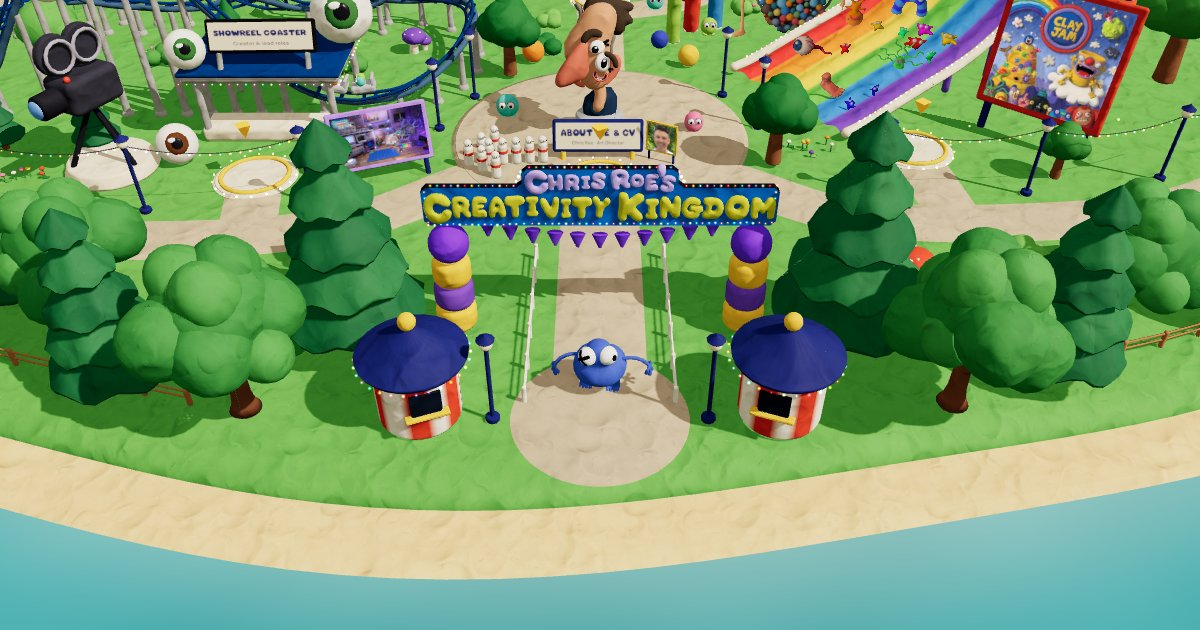
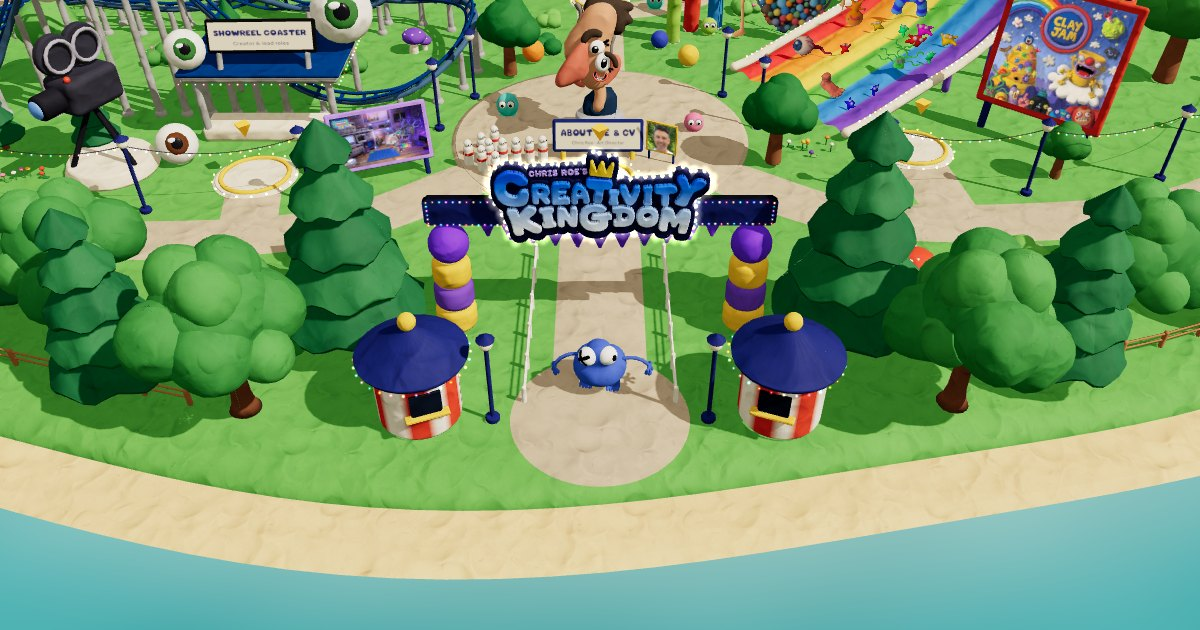
new park signage

diff --git a/lib/d3-array.min.js b/lib/d3-array.min.js
@@ -1,0 +1,2 @@
+// https://d3js.org/d3-array/ v3.2.4 Copyright 2010-2023 Mike Bostock
+!function(t,n){"object"==typeof exports&&"undefined"!=typeof module?n(exports):"function"==typeof define&&define.amd?define(["exports"],n):n((t="undefined"!=typeof globalThis?globalThis:t||self).d3=t.d3||{})}(this,(function(t){"use strict";function n(t,n){return null==t||null==n?NaN:t<n?-1:t>n?1:t>=n?0:NaN}function r(t,n){return null==t||null==n?NaN:n<t?-1:n>t?1:n>=t?0:NaN}function e(t){let e,f,i;function u(t,n,r=0,o=t.length){if(r<o){if(0!==e(n,n))return o;do{const e=r+o>>>1;f(t[e],n)<0?r=e+1:o=e}while(r<o)}return r}return 2!==t.length?(e=n,f=(r,e)=>n(t(r),e),i=(n,r)=>t(n)-r):(e=t===n||t===r?t:o,f=t,i=t),{left:u,center:function(t,n,r=0,e=t.length){const o=u(t,n,r,e-1);return o>r&&i(t[o-1],n)>-i(t[o],n)?o-1:o},right:function(t,n,r=0,o=t.length){if(r<o){if(0!==e(n,n))return o;do{const e=r+o>>>1;f(t[e],n)<=0?r=e+1:o=e}while(r<o)}return r}}}function o(){return 0}function f(t){return null===t?NaN:+t}const i=e(n),u=i.right,l=i.left,c=e(f).center;var s=u;const a=d(m),h=d((function(t){const n=m(t);return(t,r,e,o,f)=>{n(t,r,(e<<=2)+0,(o<<=2)+0,f<<=2),n(t,r,e+1,o+1,f),n(t,r,e+2,o+2,f),n(t,r,e+3,o+3,f)}}));function d(t){return function(n,r,e=r){if(!((r=+r)>=0))throw new RangeError("invalid rx");if(!((e=+e)>=0))throw new RangeError("invalid ry");let{data:o,width:f,height:i}=n;if(!((f=Math.floor(f))>=0))throw new RangeError("invalid width");if(!((i=Math.floor(void 0!==i?i:o.length/f))>=0))throw new RangeError("invalid height");if(!f||!i||!r&&!e)return n;const u=r&&t(r),l=e&&t(e),c=o.slice();return u&&l?(p(u,c,o,f,i),p(u,o,c,f,i),p(u,c,o,f,i),y(l,o,c,f,i),y(l,c,o,f,i),y(l,o,c,f,i)):u?(p(u,o,c,f,i),p(u,c,o,f,i),p(u,o,c,f,i)):l&&(y(l,o,c,f,i),y(l,c,o,f,i),y(l,o,c,f,i)),n}}function p(t,n,r,e,o){for(let f=0,i=e*o;f<i;)t(n,r,f,f+=e,1)}function y(t,n,r,e,o){for(let f=0,i=e*o;f<e;++f)t(n,r,f,f+i,e)}function m(t){const n=Math.floor(t);if(n===t)return function(t){const n=2*t+1;return(r,e,o,f,i)=>{if(!((f-=i)>=o))return;let u=t*e[o];const l=i*t;for(let t=o,n=o+l;t<n;t+=i)u+=e[Math.min(f,t)];for(let t=o,c=f;t<=c;t+=i)u+=e[Math.min(f,t+l)],r[t]=u/n,u-=e[Math.max(o,t-l)]}}(t);const r=t-n,e=2*t+1;return(t,o,f,i,u)=>{if(!((i-=u)>=f))return;let l=n*o[f];const c=u*n,s=c+u;for(let t=f,n=f+c;t<n;t+=u)l+=o[Math.min(i,t)];for(let n=f,a=i;n<=a;n+=u)l+=o[Math.min(i,n+c)],t[n]=(l+r*(o[Math.max(f,n-s)]+o[Math.min(i,n+s)]))/e,l-=o[Math.max(f,n-c)]}}function g(t,n){let r=0;if(void 0===n)for(let n of t)null!=n&&(n=+n)>=n&&++r;else{let e=-1;for(let o of t)null!=(o=n(o,++e,t))&&(o=+o)>=o&&++r}return r}function v(t){return 0|t.length}function M(t){return!(t>0)}function w(t){return"object"!=typeof t||"length"in t?t:Array.from(t)}function b(t,n){let r,e=0,o=0,f=0;if(void 0===n)for(let n of t)null!=n&&(n=+n)>=n&&(r=n-o,o+=r/++e,f+=r*(n-o));else{let i=-1;for(let u of t)null!=(u=n(u,++i,t))&&(u=+u)>=u&&(r=u-o,o+=r/++e,f+=r*(u-o))}if(e>1)return f/(e-1)}function A(t,n){const r=b(t,n);return r?Math.sqrt(r):r}function x(t,n){let r,e;if(void 0===n)for(const n of t)null!=n&&(void 0===r?n>=n&&(r=e=n):(r>n&&(r=n),e<n&&(e=n)));else{let o=-1;for(let f of t)null!=(f=n(f,++o,t))&&(void 0===r?f>=f&&(r=e=f):(r>f&&(r=f),e<f&&(e=f)))}return[r,e]}class N{constructor(){this._partials=new Float64Array(32),this._n=0}add(t){const n=this._partials;let r=0;for(let e=0;e<this._n&&e<32;e++){const o=n[e],f=t+o,i=Math.abs(t)<Math.abs(o)?t-(f-o):o-(f-t);i&&(n[r++]=i),t=f}return n[r]=t,this._n=r+1,this}valueOf(){const t=this._partials;let n,r,e,o=this._n,f=0;if(o>0){for(f=t[--o];o>0&&(n=f,r=t[--o],f=n+r,e=r-(f-n),!e););o>0&&(e<0&&t[o-1]<0||e>0&&t[o-1]>0)&&(r=2*e,n=f+r,r==n-f&&(f=n))}return f}}class InternMap extends Map{constructor(t,n=k){if(super(),Object.defineProperties(this,{_intern:{value:new Map},_key:{value:n}}),null!=t)for(const[n,r]of t)this.set(n,r)}get(t){return super.get(E(this,t))}has(t){return super.has(E(this,t))}set(t,n){return super.set(_(this,t),n)}delete(t){return super.delete(S(this,t))}}class InternSet extends Set{constructor(t,n=k){if(super(),Object.defineProperties(this,{_intern:{value:new Map},_key:{value:n}}),null!=t)for(const n of t)this.add(n)}has(t){return super.has(E(this,t))}add(t){return super.add(_(this,t))}delete(t){return super.delete(S(this,t))}}function E({_intern:t,_key:n},r){const e=n(r);return t.has(e)?t.get(e):r}function _({_intern:t,_key:n},r){const e=n(r);return t.has(e)?t.get(e):(t.set(e,r),r)}function S({_intern:t,_key:n},r){const e=n(r);return t.has(e)&&(r=t.get(e),t.delete(e)),r}function k(t){return null!==t&&"object"==typeof t?t.valueOf():t}function T(t){return t}function F(t,...n){return U(t,T,T,n)}function I(t,...n){return U(t,Array.from,T,n)}function j(t,n){for(let r=1,e=n.length;r<e;++r)t=t.flatMap((t=>t.pop().map((([n,r])=>[...t,n,r]))));return t}function q(t,n,...r){return U(t,T,n,r)}function R(t,n,...r){return U(t,Array.from,n,r)}function O(t){if(1!==t.length)throw new Error("duplicate key");return t[0]}function U(t,n,r,e){return function t(o,f){if(f>=e.length)return r(o);const i=new InternMap,u=e[f++];let l=-1;for(const t of o){const n=u(t,++l,o),r=i.get(n);r?r.push(t):i.set(n,[t])}for(const[n,r]of i)i.set(n,t(r,f));return n(i)}(t,0)}function L(t,n){return Array.from(n,(n=>t[n]))}function P(t,...n){if("function"!=typeof t[Symbol.iterator])throw new TypeError("values is not iterable");t=Array.from(t);let[r]=n;if(r&&2!==r.length||n.length>1){const e=Uint32Array.from(t,((t,n)=>n));return n.length>1?(n=n.map((n=>t.map(n))),e.sort(((t,r)=>{for(const e of n){const n=C(e[t],e[r]);if(n)return n}}))):(r=t.map(r),e.sort(((t,n)=>C(r[t],r[n])))),L(t,e)}return t.sort(z(r))}function z(t=n){if(t===n)return C;if("function"!=typeof t)throw new TypeError("compare is not a function");return(n,r)=>{const e=t(n,r);return e||0===e?e:(0===t(r,r))-(0===t(n,n))}}function C(t,n){return(null==t||!(t>=t))-(null==n||!(n>=n))||(t<n?-1:t>n?1:0)}var D=Array.prototype.slice;function G(t){return()=>t}const B=Math.sqrt(50),H=Math.sqrt(10),J=Math.sqrt(2);function K(t,n,r){const e=(n-t)/Math.max(0,r),o=Math.floor(Math.log10(e)),f=e/Math.pow(10,o),i=f>=B?10:f>=H?5:f>=J?2:1;let u,l,c;return o<0?(c=Math.pow(10,-o)/i,u=Math.round(t*c),l=Math.round(n*c),u/c<t&&++u,l/c>n&&--l,c=-c):(c=Math.pow(10,o)*i,u=Math.round(t/c),l=Math.round(n/c),u*c<t&&++u,l*c>n&&--l),l<u&&.5<=r&&r<2?K(t,n,2*r):[u,l,c]}function Q(t,n,r){if(!((r=+r)>0))return[];if((t=+t)===(n=+n))return[t];const e=n<t,[o,f,i]=e?K(n,t,r):K(t,n,r);if(!(f>=o))return[];const u=f-o+1,l=new Array(u);if(e)if(i<0)for(let t=0;t<u;++t)l[t]=(f-t)/-i;else for(let t=0;t<u;++t)l[t]=(f-t)*i;else if(i<0)for(let t=0;t<u;++t)l[t]=(o+t)/-i;else for(let t=0;t<u;++t)l[t]=(o+t)*i;return l}function V(t,n,r){return K(t=+t,n=+n,r=+r)[2]}function W(t,n,r){let e;for(;;){const o=V(t,n,r);if(o===e||0===o||!isFinite(o))return[t,n];o>0?(t=Math.floor(t/o)*o,n=Math.ceil(n/o)*o):o<0&&(t=Math.ceil(t*o)/o,n=Math.floor(n*o)/o),e=o}}function X(t){return Math.max(1,Math.ceil(Math.log(g(t))/Math.LN2)+1)}function Y(){var t=T,n=x,r=X;function e(e){Array.isArray(e)||(e=Array.from(e));var o,f,i,u=e.length,l=new Array(u);for(o=0;o<u;++o)l[o]=t(e[o],o,e);var c=n(l),a=c[0],h=c[1],d=r(l,a,h);if(!Array.isArray(d)){const t=h,r=+d;if(n===x&&([a,h]=W(a,h,r)),(d=Q(a,h,r))[0]<=a&&(i=V(a,h,r)),d[d.length-1]>=h)if(t>=h&&n===x){const t=V(a,h,r);isFinite(t)&&(t>0?h=(Math.floor(h/t)+1)*t:t<0&&(h=(Math.ceil(h*-t)+1)/-t))}else d.pop()}for(var p=d.length,y=0,m=p;d[y]<=a;)++y;for(;d[m-1]>h;)--m;(y||m<p)&&(d=d.slice(y,m),p=m-y);var g,v=new Array(p+1);for(o=0;o<=p;++o)(g=v[o]=[]).x0=o>0?d[o-1]:a,g.x1=o<p?d[o]:h;if(isFinite(i)){if(i>0)for(o=0;o<u;++o)null!=(f=l[o])&&a<=f&&f<=h&&v[Math.min(p,Math.floor((f-a)/i))].push(e[o]);else if(i<0)for(o=0;o<u;++o)if(null!=(f=l[o])&&a<=f&&f<=h){const t=Math.floor((a-f)*i);v[Math.min(p,t+(d[t]<=f))].push(e[o])}}else for(o=0;o<u;++o)null!=(f=l[o])&&a<=f&&f<=h&&v[s(d,f,0,p)].push(e[o]);return v}return e.value=function(n){return arguments.length?(t="function"==typeof n?n:G(n),e):t},e.domain=function(t){return arguments.length?(n="function"==typeof t?t:G([t[0],t[1]]),e):n},e.thresholds=function(t){return arguments.length?(r="function"==typeof t?t:G(Array.isArray(t)?D.call(t):t),e):r},e}function Z(t,n){let r;if(void 0===n)for(const n of t)null!=n&&(r<n||void 0===r&&n>=n)&&(r=n);else{let e=-1;for(let o of t)null!=(o=n(o,++e,t))&&(r<o||void 0===r&&o>=o)&&(r=o)}return r}function $(t,n){let r,e=-1,o=-1;if(void 0===n)for(const n of t)++o,null!=n&&(r<n||void 0===r&&n>=n)&&(r=n,e=o);else for(let f of t)null!=(f=n(f,++o,t))&&(r<f||void 0===r&&f>=f)&&(r=f,e=o);return e}function tt(t,n){let r;if(void 0===n)for(const n of t)null!=n&&(r>n||void 0===r&&n>=n)&&(r=n);else{let e=-1;for(let o of t)null!=(o=n(o,++e,t))&&(r>o||void 0===r&&o>=o)&&(r=o)}return r}function nt(t,n){let r,e=-1,o=-1;if(void 0===n)for(const n of t)++o,null!=n&&(r>n||void 0===r&&n>=n)&&(r=n,e=o);else for(let f of t)null!=(f=n(f,++o,t))&&(r>f||void 0===r&&f>=f)&&(r=f,e=o);return e}function rt(t,n,r=0,e=1/0,o){if(n=Math.floor(n),r=Math.floor(Math.max(0,r)),e=Math.floor(Math.min(t.length-1,e)),!(r<=n&&n<=e))return t;for(o=void 0===o?C:z(o);e>r;){if(e-r>600){const f=e-r+1,i=n-r+1,u=Math.log(f),l=.5*Math.exp(2*u/3),c=.5*Math.sqrt(u*l*(f-l)/f)*(i-f/2<0?-1:1);rt(t,n,Math.max(r,Math.floor(n-i*l/f+c)),Math.min(e,Math.floor(n+(f-i)*l/f+c)),o)}const f=t[n];let i=r,u=e;for(et(t,r,n),o(t[e],f)>0&&et(t,r,e);i<u;){for(et(t,i,u),++i,--u;o(t[i],f)<0;)++i;for(;o(t[u],f)>0;)--u}0===o(t[r],f)?et(t,r,u):(++u,et(t,u,e)),u<=n&&(r=u+1),n<=u&&(e=u-1)}return t}function et(t,n,r){const e=t[n];t[n]=t[r],t[r]=e}function ot(t,r=n){let e,o=!1;if(1===r.length){let f;for(const i of t){const t=r(i);(o?n(t,f)>0:0===n(t,t))&&(e=i,f=t,o=!0)}}else for(const n of t)(o?r(n,e)>0:0===r(n,n))&&(e=n,o=!0);return e}function ft(t,n,r){if(t=Float64Array.from(function*(t,n){if(void 0===n)for(let n of t)null!=n&&(n=+n)>=n&&(yield n);else{let r=-1;for(let e of t)null!=(e=n(e,++r,t))&&(e=+e)>=e&&(yield e)}}(t,r)),(e=t.length)&&!isNaN(n=+n)){if(n<=0||e<2)return tt(t);if(n>=1)return Z(t);var e,o=(e-1)*n,f=Math.floor(o),i=Z(rt(t,f).subarray(0,f+1));return i+(tt(t.subarray(f+1))-i)*(o-f)}}function it(t,n,r=f){if(!isNaN(n=+n)){if(e=Float64Array.from(t,((n,e)=>f(r(t[e],e,t)))),n<=0)return nt(e);if(n>=1)return $(e);var e,o=Uint32Array.from(t,((t,n)=>n)),i=e.length-1,u=Math.floor(i*n);return rt(o,u,0,i,((t,n)=>C(e[t],e[n]))),(u=ot(o.subarray(0,u+1),(t=>e[t])))>=0?u:-1}}function ut(t,n){return[t,n]}function lt(t,r=n){if(1===r.length)return nt(t,r);let e,o=-1,f=-1;for(const n of t)++f,(o<0?0===r(n,n):r(n,e)<0)&&(e=n,o=f);return o}var ct=st(Math.random);function st(t){return function(n,r=0,e=n.length){let o=e-(r=+r);for(;o;){const e=t()*o--|0,f=n[o+r];n[o+r]=n[e+r],n[e+r]=f}return n}}function at(t){if(!(o=t.length))return[];for(var n=-1,r=tt(t,ht),e=new Array(r);++n<r;)for(var o,f=-1,i=e[n]=new Array(o);++f<o;)i[f]=t[f][n];return e}function ht(t){return t.length}function dt(t){return t instanceof InternSet?t:new InternSet(t)}function pt(t,n){const r=t[Symbol.iterator](),e=new Set;for(const t of n){const n=yt(t);if(e.has(n))continue;let o,f;for(;({value:o,done:f}=r.next());){if(f)return!1;const t=yt(o);if(e.add(t),Object.is(n,t))break}}return!0}function yt(t){return null!==t&&"object"==typeof t?t.valueOf():t}t.Adder=N,t.InternMap=InternMap,t.InternSet=InternSet,t.ascending=n,t.bin=Y,t.bisect=s,t.bisectCenter=c,t.bisectLeft=l,t.bisectRight=u,t.bisector=e,t.blur=function(t,n){if(!((n=+n)>=0))throw new RangeError("invalid r");let r=t.length;if(!((r=Math.floor(r))>=0))throw new RangeError("invalid length");if(!r||!n)return t;const e=m(n),o=t.slice();return e(t,o,0,r,1),e(o,t,0,r,1),e(t,o,0,r,1),t},t.blur2=a,t.blurImage=h,t.count=g,t.cross=function(...t){const n="function"==typeof t[t.length-1]&&function(t){return n=>t(...n)}(t.pop()),r=(t=t.map(w)).map(v),e=t.length-1,o=new Array(e+1).fill(0),f=[];if(e<0||r.some(M))return f;for(;;){f.push(o.map(((n,r)=>t[r][n])));let i=e;for(;++o[i]===r[i];){if(0===i)return n?f.map(n):f;o[i--]=0}}},t.cumsum=function(t,n){var r=0,e=0;return Float64Array.from(t,void 0===n?t=>r+=+t||0:o=>r+=+n(o,e++,t)||0)},t.descending=r,t.deviation=A,t.difference=function(t,...n){t=new InternSet(t);for(const r of n)for(const n of r)t.delete(n);return t},t.disjoint=function(t,n){const r=n[Symbol.iterator](),e=new InternSet;for(const n of t){if(e.has(n))return!1;let t,o;for(;({value:t,done:o}=r.next())&&!o;){if(Object.is(n,t))return!1;e.add(t)}}return!0},t.every=function(t,n){if("function"!=typeof n)throw new TypeError("test is not a function");let r=-1;for(const e of t)if(!n(e,++r,t))return!1;return!0},t.extent=x,t.fcumsum=function(t,n){const r=new N;let e=-1;return Float64Array.from(t,void 0===n?t=>r.add(+t||0):o=>r.add(+n(o,++e,t)||0))},t.filter=function(t,n){if("function"!=typeof n)throw new TypeError("test is not a function");const r=[];let e=-1;for(const o of t)n(o,++e,t)&&r.push(o);return r},t.flatGroup=function(t,...n){return j(I(t,...n),n)},t.flatRollup=function(t,n,...r){return j(R(t,n,...r),r)},t.fsum=function(t,n){const r=new N;if(void 0===n)for(let n of t)(n=+n)&&r.add(n);else{let e=-1;for(let o of t)(o=+n(o,++e,t))&&r.add(o)}return+r},t.greatest=ot,t.greatestIndex=function(t,r=n){if(1===r.length)return $(t,r);let e,o=-1,f=-1;for(const n of t)++f,(o<0?0===r(n,n):r(n,e)>0)&&(e=n,o=f);return o},t.group=F,t.groupSort=function(t,r,e){return(2!==r.length?P(q(t,r,e),(([t,r],[e,o])=>n(r,o)||n(t,e))):P(F(t,e),(([t,e],[o,f])=>r(e,f)||n(t,o)))).map((([t])=>t))},t.groups=I,t.histogram=Y,t.index=function(t,...n){return U(t,T,O,n)},t.indexes=function(t,...n){return U(t,Array.from,O,n)},t.intersection=function(t,...n){t=new InternSet(t),n=n.map(dt);t:for(const r of t)for(const e of n)if(!e.has(r)){t.delete(r);continue t}return t},t.least=function(t,r=n){let e,o=!1;if(1===r.length){let f;for(const i of t){const t=r(i);(o?n(t,f)<0:0===n(t,t))&&(e=i,f=t,o=!0)}}else for(const n of t)(o?r(n,e)<0:0===r(n,n))&&(e=n,o=!0);return e},t.leastIndex=lt,t.map=function(t,n){if("function"!=typeof t[Symbol.iterator])throw new TypeError("values is not iterable");if("function"!=typeof n)throw new TypeError("mapper is not a function");return Array.from(t,((r,e)=>n(r,e,t)))},t.max=Z,t.maxIndex=$,t.mean=function(t,n){let r=0,e=0;if(void 0===n)for(let n of t)null!=n&&(n=+n)>=n&&(++r,e+=n);else{let o=-1;for(let f of t)null!=(f=n(f,++o,t))&&(f=+f)>=f&&(++r,e+=f)}if(r)return e/r},t.median=function(t,n){return ft(t,.5,n)},t.medianIndex=function(t,n){return it(t,.5,n)},t.merge=function(t){return Array.from(function*(t){for(const n of t)yield*n}(t))},t.min=tt,t.minIndex=nt,t.mode=function(t,n){const r=new InternMap;if(void 0===n)for(let n of t)null!=n&&n>=n&&r.set(n,(r.get(n)||0)+1);else{let e=-1;for(let o of t)null!=(o=n(o,++e,t))&&o>=o&&r.set(o,(r.get(o)||0)+1)}let e,o=0;for(const[t,n]of r)n>o&&(o=n,e=t);return e},t.nice=W,t.pairs=function(t,n=ut){const r=[];let e,o=!1;for(const f of t)o&&r.push(n(e,f)),e=f,o=!0;return r},t.permute=L,t.quantile=ft,t.quantileIndex=it,t.quantileSorted=function(t,n,r=f){if((e=t.length)&&!isNaN(n=+n)){if(n<=0||e<2)return+r(t[0],0,t);if(n>=1)return+r(t[e-1],e-1,t);var e,o=(e-1)*n,i=Math.floor(o),u=+r(t[i],i,t);return u+(+r(t[i+1],i+1,t)-u)*(o-i)}},t.quickselect=rt,t.range=function(t,n,r){t=+t,n=+n,r=(o=arguments.length)<2?(n=t,t=0,1):o<3?1:+r;for(var e=-1,o=0|Math.max(0,Math.ceil((n-t)/r)),f=new Array(o);++e<o;)f[e]=t+e*r;return f},t.rank=function(t,r=n){if("function"!=typeof t[Symbol.iterator])throw new TypeError("values is not iterable");let e=Array.from(t);const o=new Float64Array(e.length);2!==r.length&&(e=e.map(r),r=n);const f=(t,n)=>r(e[t],e[n]);let i,u;return(t=Uint32Array.from(e,((t,n)=>n))).sort(r===n?(t,n)=>C(e[t],e[n]):z(f)),t.forEach(((t,n)=>{const r=f(t,void 0===i?t:i);r>=0?((void 0===i||r>0)&&(i=t,u=n),o[t]=u):o[t]=NaN})),o},t.reduce=function(t,n,r){if("function"!=typeof n)throw new TypeError("reducer is not a function");const e=t[Symbol.iterator]();let o,f,i=-1;if(arguments.length<3){if(({done:o,value:r}=e.next()),o)return;++i}for(;({done:o,value:f}=e.next()),!o;)r=n(r,f,++i,t);return r},t.reverse=function(t){if("function"!=typeof t[Symbol.iterator])throw new TypeError("values is not iterable");return Array.from(t).reverse()},t.rollup=q,t.rollups=R,t.scan=function(t,n){const r=lt(t,n);return r<0?void 0:r},t.shuffle=ct,t.shuffler=st,t.some=function(t,n){if("function"!=typeof n)throw new TypeError("test is not a function");let r=-1;for(const e of t)if(n(e,++r,t))return!0;return!1},t.sort=P,t.subset=function(t,n){return pt(n,t)},t.sum=function(t,n){let r=0;if(void 0===n)for(let n of t)(n=+n)&&(r+=n);else{let e=-1;for(let o of t)(o=+n(o,++e,t))&&(r+=o)}return r},t.superset=pt,t.thresholdFreedmanDiaconis=function(t,n,r){const e=g(t),o=ft(t,.75)-ft(t,.25);return e&&o?Math.ceil((r-n)/(2*o*Math.pow(e,-1/3))):1},t.thresholdScott=function(t,n,r){const e=g(t),o=A(t);return e&&o?Math.ceil((r-n)*Math.cbrt(e)/(3.49*o)):1},t.thresholdSturges=X,t.tickIncrement=V,t.tickStep=function(t,n,r){r=+r;const e=(n=+n)<(t=+t),o=e?V(n,t,r):V(t,n,r);return(e?-1:1)*(o<0?1/-o:o)},t.ticks=Q,t.transpose=at,t.union=function(...t){const n=new InternSet;for(const r of t)for(const t of r)n.add(t);return n},t.variance=b,t.zip=function(){return at(arguments)}}));

diff --git a/index.html b/index.html
@@ -339,6 +339,7 @@ a{color:var(--navy)}
   <div class="vcount" id="vCount" aria-live="polite"></div>
 </div>
 
+<script defer src="lib/d3-array.min.js"></script><script defer src="lib/d3-contour.min.js"></script>
 <script type="importmap">{ "imports": { "three": "./three.module.min.js" } }</script>
 <script type="module">
 import * as THREE from 'three';
@@ -985,6 +986,103 @@ function buildFromGLTF(gltf){
   root.updateMatrixWorld(true);
   const byRe = re => { const out = []; root.traverse(o => { if (re.test(o.name)) out.push(o); }); return out; };
   const first = name => root.getObjectByName(name);
+  { // The gate sign: the park logo as individual 3D clay pieces on a navy surround, stuck to the original sign's strip (now dark blue), with warm white bulbs round the surround's sides.
+    // The pieces are traced from img/kingdom-sign.webp (the logo with CHRIS ROE'S added), so a new logo image there rebuilds the sign.
+    const sign = root.getObjectByName('Fade_CreativityKingdomSign');
+    let strip = null;
+    if (sign && sign.isMesh){
+      // keep only the old back panel, make it navy, and make it a thinner strip
+      const g = sign.geometry, col = g.attributes.color, pos = g.attributes.position, n = pos.count;
+      const isLetter = i => { const r = col.getX(i), gg = col.getY(i), b = col.getZ(i); return (r > .3 && gg > .3) || (r > .3 && b > .8); };
+      const idx = g.index ? Array.from(g.index.array) : Array.from({ length:n }, (_, i) => i), keep = [];
+      for (let t = 0; t < idx.length; t += 3) if (!isLetter(idx[t]) && !isLetter(idx[t + 1]) && !isLetter(idx[t + 2])) keep.push(idx[t], idx[t + 1], idx[t + 2]);
+      g.setIndex(keep);
+      let y0 = 1e9, y1 = -1e9; for (const i of keep){ y0 = Math.min(y0, pos.getY(i)); y1 = Math.max(y1, pos.getY(i)); }
+      const SQ = .7; for (let i = 0; i < n; i++){ pos.setY(i, y0 + (pos.getY(i) - y0) * SQ); if (col.getZ(i) > .5) col.setXYZ(i, .02, .028, .19); }
+      pos.needsUpdate = col.needsUpdate = true; g.computeBoundingBox(); g.computeBoundingSphere();
+      // the strip's fairy lights move down with it (each bulb is 8 vertices; squash about the strip's base, in world space)
+      sign.updateMatrixWorld(true); const wb0 = new THREE.Box3(), v = new THREE.Vector3(); for (const i of keep) wb0.expandByPoint(v.fromBufferAttribute(pos, i).applyMatrix4(sign.matrixWorld)); const base = wb0.min.y;
+      // the strip's top edge at any x (it steps up behind the logo), read from its front-face triangles
+      const W3 = i => new THREE.Vector3().fromBufferAttribute(pos, i).applyMatrix4(sign.matrixWorld), fe = [];
+      for (let t = 0; t < keep.length; t += 3){ const tri = [W3(keep[t]), W3(keep[t + 1]), W3(keep[t + 2])]; if (tri.every(q => q.z > wb0.max.z - .03)) for (let e = 0; e < 3; e++) fe.push(tri[e], tri[(e + 1) % 3]); }
+      const topAt = x => { let t = -1e9; for (let e = 0; e < fe.length; e += 2){ const a = fe[e], b = fe[e + 1]; if (Math.abs(a.x - b.x) < 1e-5 || x < Math.min(a.x, b.x) || x > Math.max(a.x, b.x)) continue; t = Math.max(t, a.y + (b.y - a.y) * (x - a.x) / (b.x - a.x)); } return t > -1e8 ? t : wb0.max.y; };
+      root.traverse(o => { if (!o.isMesh || !/^FairyLights/.test(o.name)) return; o.updateMatrixWorld(true);
+        const p = o.geometry.attributes.position, inv = o.matrixWorld.clone().invert();
+        for (let b = 0; b + 8 <= p.count; b += 8){ const c = new THREE.Vector3(); for (let k = 0; k < 8; k++) c.add(v.fromBufferAttribute(p, b + k).applyMatrix4(o.matrixWorld)); c.divideScalar(8);
+          if (Math.abs(c.x) > wb0.max.x + .4 || c.z < wb0.min.z - .4 || c.z > wb0.max.z + .6 || c.y < base - .3 || c.y > base + 5) continue;
+          const dy = (c.y > base + 2.6 ? topAt(c.x) - .16 : Math.min(topAt(c.x) - .16, Math.max(0, c.y - base) * SQ + base)) - Math.max(c.y, base);
+          for (let k = 0; k < 8; k++){ v.fromBufferAttribute(p, b + k).applyMatrix4(o.matrixWorld); v.y += dy; v.applyMatrix4(inv); p.setXYZ(b + k, v.x, v.y, v.z); } }
+        p.needsUpdate = true; });
+      strip = wb0;
+    }
+    const sb = strip || new THREE.Box3(new THREE.Vector3(-10.8, 8, 68.68), new THREE.Vector3(10.8, 10.8, 69.19));
+    const LW = 13.0, IW = 1740, IH = 829, LH = LW * IH / IW, s = LW / IW;
+    const CX = 0, CY = (sb.min.y + sb.max.y) / 2 + .75, Z = sb.max.z;
+    // warm white bulbs (placed round the logo once its outline is traced)
+    const BULB_GAP = .5;
+    const bulbG = new THREE.SphereGeometry(.15, 12, 8), bulbM = new THREE.MeshBasicMaterial({ color:new THREE.Color(1.3, 1.08, .78), toneMapped:false });
+    const glowM = new THREE.SpriteMaterial({ color:'#ffd9a0', transparent:true, opacity:.55, depthWrite:false, blending:THREE.AdditiveBlending, map:(() => { const c = document.createElement('canvas'); c.width = c.height = 64; const g = c.getContext('2d'), gr = g.createRadialGradient(32, 32, 0, 32, 32, 32); gr.addColorStop(0, 'rgba(255,255,255,1)'); gr.addColorStop(1, 'rgba(255,255,255,0)'); g.fillStyle = gr; g.fillRect(0, 0, 64, 64); return new THREE.CanvasTexture(c); })() });
+    const img = new Image(); img.src = 'img/kingdom-sign.webp';
+    img.onload = () => { if (!window.d3 || !d3.contours) return;
+      const cv = document.createElement('canvas'); cv.width = IW; cv.height = IH; const g = cv.getContext('2d', { willReadFrequently:true });
+      g.drawImage(img, 0, 0);
+      const px = g.getImageData(0, 0, IW, IH).data;
+      // contour grids at reduced resolution
+      const K = .6, GW = Math.round(IW * K), GH = Math.round(IH * K), sur = new Float64Array(GW * GH), let_ = new Float64Array(GW * GH);
+      for (let y = 0; y < GH; y++) for (let x = 0; x < GW; x++){
+        let a = 0, l = 0, c = 0; for (let dy = 0; dy < 2; dy++) for (let dx = 0; dx < 2; dx++){
+          const ix = Math.min(IW - 1, Math.floor((x + dx * .5) / K)), iy = Math.min(IH - 1, Math.floor((y + dy * .5) / K)), o = (iy * IW + ix) * 4;
+          const al = px[o + 3] / 255, mx = Math.max(px[o], px[o + 1], px[o + 2]); a += al; l += al * Math.min(1, Math.max(0, (mx - 50) / 100)); c++; }
+        sur[y * GW + x] = a / c; let_[y * GW + x] = l / c; }
+      const pad = (arr) => { const w = GW + 2, h = GH + 2, o = new Float64Array(w * h); for (let y = 0; y < GH; y++) for (let x = 0; x < GW; x++) o[(y + 1) * w + x + 1] = arr[y * GW + x]; return o; };
+      const contour = arr => d3.contours().size([GW + 2, GH + 2]).smooth(true).thresholds([.5])(pad(arr))[0].coordinates;
+      // grid -> world (relative to the logo centre)
+      const toW = ([gx, gy]) => new THREE.Vector2(((gx - 1) / K - IW / 2) * s, -((gy - 1) / K - IH / 2) * s);
+      const ring = (r, tol = .03) => { const out = []; let last = null; for (const p of r){ const v = toW(p); if (!last || v.distanceTo(last) > tol){ out.push(v); last = v; } } if (out.length > 2 && out[0].distanceTo(out[out.length - 1]) < .02) out.pop(); return out; };
+      const shapeOf = (poly, tol) => { const sh = new THREE.Shape(ring(poly[0], tol)); for (const h of poly.slice(1)){ const hr = ring(h, tol); if (hr.length > 2) sh.holes.push(new THREE.Path(hr)); } return sh; };
+      const area = r => { let a = 0; for (let i = 0, j = r.length - 1; i < r.length; j = i++) a += (r[j][0] + r[i][0]) * (r[j][1] - r[i][1]); return Math.abs(a / 2); };
+      // the letters' fill colours, grown out over the navy outline (half resolution), so a letter's edges only ever pick up its own colour
+      const FW = IW >> 1, FH = IH >> 1, fc = new Float32Array(FW * FH * 3), fk = new Uint8Array(FW * FH);
+      for (let y = 0; y < FH; y++) for (let x = 0; x < FW; x++){ const o = ((y * 2) * IW + x * 2) * 4, mx = Math.max(px[o], px[o + 1], px[o + 2]);
+        if (px[o + 3] > 240 && mx > 140){ const f = y * FW + x; fk[f] = 1; fc[f * 3] = px[o]; fc[f * 3 + 1] = px[o + 1]; fc[f * 3 + 2] = px[o + 2]; } }
+      for (let it = 0; it < 24; it++){ const add = [];
+        for (let y = 1; y < FH - 1; y++) for (let x = 1; x < FW - 1; x++){ const f = y * FW + x; if (fk[f]) continue; let r = 0, g2 = 0, b = 0, k = 0;
+          for (const q of [f - 1, f + 1, f - FW, f + FW]) if (fk[q]){ r += fc[q * 3]; g2 += fc[q * 3 + 1]; b += fc[q * 3 + 2]; k++; }
+          if (k) add.push(f, r / k, g2 / k, b / k); }
+        for (let i = 0; i < add.length; i += 4){ const f = add[i]; fk[f] = 1; fc[f * 3] = add[i + 1]; fc[f * 3 + 1] = add[i + 2]; fc[f * 3 + 2] = add[i + 3]; } }
+      const sample = (wx, wy) => { const ix = Math.max(0, Math.min(FW - 1, Math.round((wx / s + IW / 2) / 2))), iy = Math.max(0, Math.min(FH - 1, Math.round((-wy / s + IH / 2) / 2))), f = iy * FW + ix;
+        const c = new THREE.Color().setRGB(fc[f * 3] / 255, fc[f * 3 + 1] / 255, fc[f * 3 + 2] / 255, THREE.SRGBColorSpace), h = {}; c.getHSL(h); return c.setHSL(h.h, Math.min(1, h.s * 1.25), h.l * .94); };
+      const pieces = [];
+      const addPiece = (geo, colourAt, x, y, z) => { geo.translate(x, y, z); const p = geo.attributes.position, n = p.count, a = new Float32Array(n * 4);
+        for (let i = 0; i < n; i++){ const c = colourAt(p.getX(i) - x, p.getY(i) - y); a[i * 4] = c.r; a[i * 4 + 1] = c.g; a[i * 4 + 2] = c.b; a[i * 4 + 3] = 1; }
+        geo.setAttribute('color', new THREE.BufferAttribute(a, 4)); geo.deleteAttribute('uv'); pieces.push(clayGeo(geo)); geo.dispose(); };
+      // 1. the navy surround: one thick clay slab in the logo's outline
+      const SD = .45, navy = new THREE.Color('#141a52');
+      for (const poly of contour(sur)){ if (area(poly[0]) < 40) continue;
+        const geo = new THREE.ExtrudeGeometry(shapeOf(poly, .06), { depth:SD, bevelEnabled:true, bevelThickness:.12, bevelSize:.1, bevelOffset:-.1, bevelSegments:2, curveSegments:2 });
+        addPiece(geo, () => navy, CX, CY, Z + .02);
+        // warm white bulbs stuck round the surround's outer side faces
+        const r = poly[0].map(toW), n = r.length; if (n < 20) continue;
+        const sm = r.map((_, i) => { const v = new THREE.Vector2(); for (let k = -6; k <= 6; k++) v.add(r[(i + k + n) % n]); return v.divideScalar(13); });
+        let sa = 0; for (let i = 0; i < n; i++){ const a = sm[i], b = sm[(i + 1) % n]; sa += a.x * b.y - b.x * a.y; }
+        const out = sa > 0 ? 1 : -1, zb = Z + .02 + SD / 2; let acc = 0;
+        for (let i = 0; i < n; i++){ const a = sm[i], b = sm[(i + 1) % n], L = a.distanceTo(b); acc += L; if (acc < BULB_GAP) continue; acc = 0;
+          const t = new THREE.Vector2(b.x - a.x, b.y - a.y).normalize(), nx = t.y * out, ny = -t.x * out;
+          const bx = CX + a.x + nx * .1, by = CY + a.y + ny * .1;
+          const bm = new THREE.Mesh(bulbG, bulbM); bm.position.set(bx, by, zb); scene.add(bm);
+          const gl = new THREE.Sprite(glowM); gl.position.set(bx + nx * .05, by + ny * .05, zb + .1); gl.scale.setScalar(.85); scene.add(gl); } }
+      // 2. every letter (and the crown, and each letter of CHRIS ROE'S) as its own puffy clay piece
+      let count = 0;
+      for (const poly of contour(let_)){ if (area(poly[0]) < 12) continue;
+        const small0 = area(poly[0]) < 900, sh = shapeOf(poly, small0 ? .016 : .03); if (sh.getPoints().length < 3) continue;
+        const pts = sh.getPoints(), c = pts.reduce((a, p) => a.add(p), new THREE.Vector2()).divideScalar(pts.length);
+        const small = small0, dep = small ? .14 : .26, bev = small ? .04 : .09;
+        const geo = new THREE.ExtrudeGeometry(sh, { depth:dep, bevelEnabled:true, bevelThickness:small ? .06 : .14, bevelSize:bev, bevelOffset:-bev, bevelSegments:3, curveSegments:2 });
+        // colour from the artwork, read a little way in from the edge so the navy outline never bleeds in
+        addPiece(geo, sample, CX, CY, Z + .02 + SD + (Math.sin(count * 12.9898) * .5 + .5) * .05); count++; }
+      const logoMesh = new THREE.Mesh(mergeGeometries(pieces, false), clayMat); pieces.forEach(g => g.dispose()); logoMesh.castShadow = logoMesh.receiveShadow = true; scene.add(logoMesh);
+    };
+  }
   const numeric = (a, b) => a.name.localeCompare(b.name, undefined, { numeric:true });
 
   // Unity's sun: take its direction and colour.
@@ -1676,5 +1774,4 @@ function frame(){
   b.classList.add('quiet'); b.focus({ focusVisible:false }); addEventListener('keydown', e => { if (e.key === 'Tab') b.classList.remove('quiet'); }, { once:true });
 })();
 </script>
-
 </html>

diff --git a/lib/d3-contour.min.js b/lib/d3-contour.min.js
@@ -1,0 +1,2 @@
+// https://d3js.org/d3-contour/ v4.0.2 Copyright 2012-2023 Mike Bostock
+!function(r,n){"object"==typeof exports&&"undefined"!=typeof module?n(exports,require("d3-array")):"function"==typeof define&&define.amd?define(["exports","d3-array"],n):n((r="undefined"!=typeof globalThis?globalThis:r||self).d3=r.d3||{},r.d3)}(this,(function(r,n){"use strict";var t=Array.prototype.slice;function e(r,n){return r-n}var o=r=>()=>r;function i(r,n){for(var t,e=-1,o=n.length;++e<o;)if(t=u(r,n[e]))return t;return 0}function u(r,n){for(var t=n[0],e=n[1],o=-1,i=0,u=r.length,f=u-1;i<u;f=i++){var c=r[i],h=c[0],s=c[1],l=r[f],d=l[0],g=l[1];if(a(c,l,n))return 0;s>e!=g>e&&t<(d-h)*(e-s)/(g-s)+h&&(o=-o)}return o}function a(r,n,t){var e,o,i,u;return function(r,n,t){return(n[0]-r[0])*(t[1]-r[1])==(t[0]-r[0])*(n[1]-r[1])}(r,n,t)&&(o=r[e=+(r[0]===n[0])],i=t[e],u=n[e],o<=i&&i<=u||u<=i&&i<=o)}function f(){}var c=[[],[[[1,1.5],[.5,1]]],[[[1.5,1],[1,1.5]]],[[[1.5,1],[.5,1]]],[[[1,.5],[1.5,1]]],[[[1,1.5],[.5,1]],[[1,.5],[1.5,1]]],[[[1,.5],[1,1.5]]],[[[1,.5],[.5,1]]],[[[.5,1],[1,.5]]],[[[1,1.5],[1,.5]]],[[[.5,1],[1,.5]],[[1.5,1],[1,1.5]]],[[[1.5,1],[1,.5]]],[[[.5,1],[1.5,1]]],[[[1,1.5],[1.5,1]]],[[[.5,1],[1,1.5]]],[]];function h(){var r=1,u=1,a=n.thresholdSturges,h=w;function v(r){var t=a(r);if(Array.isArray(t))t=t.slice().sort(e);else{const e=n.extent(r,s);for(t=n.ticks(...n.nice(e[0],e[1],t),t);t[t.length-1]>=e[1];)t.pop();for(;t[1]<e[0];)t.shift()}return t.map((n=>p(r,n)))}function p(n,t){const e=null==t?NaN:+t;if(isNaN(e))throw new Error(`invalid value: ${t}`);var o=[],a=[];return function(n,t,e){var o,i,a,f,h,s,d=new Array,g=new Array;o=i=-1,f=l(n[0],t),c[f<<1].forEach(v);for(;++o<r-1;)a=f,f=l(n[o+1],t),c[a|f<<1].forEach(v);c[f<<0].forEach(v);for(;++i<u-1;){for(o=-1,f=l(n[i*r+r],t),h=l(n[i*r],t),c[f<<1|h<<2].forEach(v);++o<r-1;)a=f,f=l(n[i*r+r+o+1],t),s=h,h=l(n[i*r+o+1],t),c[a|f<<1|h<<2|s<<3].forEach(v);c[f|h<<3].forEach(v)}o=-1,h=n[i*r]>=t,c[h<<2].forEach(v);for(;++o<r-1;)s=h,h=l(n[i*r+o+1],t),c[h<<2|s<<3].forEach(v);function v(r){var n,t,u=[r[0][0]+o,r[0][1]+i],a=[r[1][0]+o,r[1][1]+i],f=y(u),c=y(a);(n=g[f])?(t=d[c])?(delete g[n.end],delete d[t.start],n===t?(n.ring.push(a),e(n.ring)):d[n.start]=g[t.end]={start:n.start,end:t.end,ring:n.ring.concat(t.ring)}):(delete g[n.end],n.ring.push(a),g[n.end=c]=n):(n=d[c])?(t=g[f])?(delete d[n.start],delete g[t.end],n===t?(n.ring.push(a),e(n.ring)):d[t.start]=g[n.end]={start:t.start,end:n.end,ring:t.ring.concat(n.ring)}):(delete d[n.start],n.ring.unshift(u),d[n.start=f]=n):d[f]=g[c]={start:f,end:c,ring:[u,a]}}c[h<<3].forEach(v)}(n,e,(function(r){h(r,n,e),function(r){for(var n=0,t=r.length,e=r[t-1][1]*r[0][0]-r[t-1][0]*r[0][1];++n<t;)e+=r[n-1][1]*r[n][0]-r[n-1][0]*r[n][1];return e}(r)>0?o.push([r]):a.push(r)})),a.forEach((function(r){for(var n,t=0,e=o.length;t<e;++t)if(-1!==i((n=o[t])[0],r))return void n.push(r)})),{type:"MultiPolygon",value:t,coordinates:o}}function y(n){return 2*n[0]+n[1]*(r+1)*4}function w(n,t,e){n.forEach((function(n){var o=n[0],i=n[1],a=0|o,f=0|i,c=d(t[f*r+a]);o>0&&o<r&&a===o&&(n[0]=g(o,d(t[f*r+a-1]),c,e)),i>0&&i<u&&f===i&&(n[1]=g(i,d(t[(f-1)*r+a]),c,e))}))}return v.contour=p,v.size=function(n){if(!arguments.length)return[r,u];var t=Math.floor(n[0]),e=Math.floor(n[1]);if(!(t>=0&&e>=0))throw new Error("invalid size");return r=t,u=e,v},v.thresholds=function(r){return arguments.length?(a="function"==typeof r?r:Array.isArray(r)?o(t.call(r)):o(r),v):a},v.smooth=function(r){return arguments.length?(h=r?w:f,v):h===w},v}function s(r){return isFinite(r)?r:NaN}function l(r,n){return null!=r&&+r>=n}function d(r){return null==r||isNaN(r=+r)?-1/0:r}function g(r,n,t,e){const o=e-n,i=t-n,u=isFinite(o)||isFinite(i)?o/i:Math.sign(o)/Math.sign(i);return isNaN(u)?r:r+u-.5}function v(r){return r[0]}function p(r){return r[1]}function y(){return 1}r.contourDensity=function(){var r=v,e=p,i=y,u=960,a=500,f=20,c=2,s=3*f,l=u+2*s>>c,d=a+2*s>>c,g=o(20);function w(t){var o=new Float32Array(l*d),u=Math.pow(2,-c),a=-1;for(const n of t){var h=(r(n,++a,t)+s)*u,g=(e(n,a,t)+s)*u,v=+i(n,a,t);if(v&&h>=0&&h<l&&g>=0&&g<d){var p=Math.floor(h),y=Math.floor(g),w=h-p-.5,E=g-y-.5;o[p+y*l]+=(1-w)*(1-E)*v,o[p+1+y*l]+=w*(1-E)*v,o[p+1+(y+1)*l]+=w*E*v,o[p+(y+1)*l]+=(1-w)*E*v}}return n.blur2({data:o,width:l,height:d},f*u),o}function E(r){var t=w(r),e=g(t),o=Math.pow(2,2*c);return Array.isArray(e)||(e=n.ticks(Number.MIN_VALUE,n.max(t)/o,e)),h().size([l,d]).thresholds(e.map((r=>r*o)))(t).map(((r,n)=>(r.value=+e[n],M(r))))}function M(r){return r.coordinates.forEach(A),r}function A(r){r.forEach(N)}function N(r){r.forEach(m)}function m(r){r[0]=r[0]*Math.pow(2,c)-s,r[1]=r[1]*Math.pow(2,c)-s}function b(){return l=u+2*(s=3*f)>>c,d=a+2*s>>c,E}return E.contours=function(r){var t=w(r),e=h().size([l,d]),o=Math.pow(2,2*c),i=r=>{r=+r;var n=M(e.contour(t,r*o));return n.value=r,n};return Object.defineProperty(i,"max",{get:()=>n.max(t)/o}),i},E.x=function(n){return arguments.length?(r="function"==typeof n?n:o(+n),E):r},E.y=function(r){return arguments.length?(e="function"==typeof r?r:o(+r),E):e},E.weight=function(r){return arguments.length?(i="function"==typeof r?r:o(+r),E):i},E.size=function(r){if(!arguments.length)return[u,a];var n=+r[0],t=+r[1];if(!(n>=0&&t>=0))throw new Error("invalid size");return u=n,a=t,b()},E.cellSize=function(r){if(!arguments.length)return 1<<c;if(!((r=+r)>=1))throw new Error("invalid cell size");return c=Math.floor(Math.log(r)/Math.LN2),b()},E.thresholds=function(r){return arguments.length?(g="function"==typeof r?r:Array.isArray(r)?o(t.call(r)):o(r),E):g},E.bandwidth=function(r){if(!arguments.length)return Math.sqrt(f*(f+1));if(!((r=+r)>=0))throw new Error("invalid bandwidth");return f=(Math.sqrt(4*r*r+1)-1)/2,b()},E},r.contours=h}));
